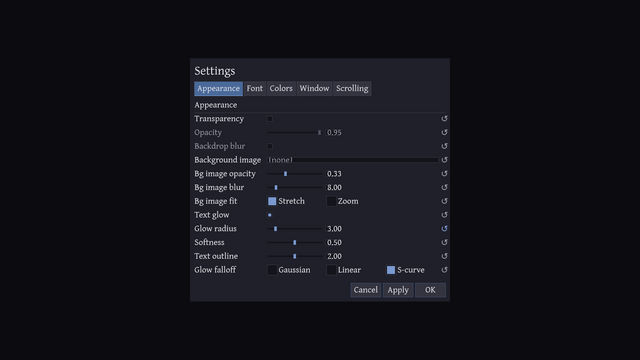
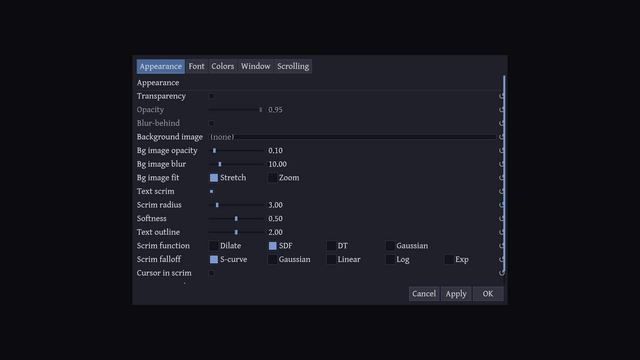
scrim doc + settings shot

diff --git a/source/src/scrim.rs b/source/src/scrim.rs
@@ -1,19 +1,24 @@
 // SPDX-License-Identifier: GPL-2.0-or-later
 // Copyright © 2026 Jim Collier
 
-//! Text readability scrim: a blurred, background-coloured halo behind glyphs so
-//! text stays legible over a light/busy background image or a near-transparent
-//! terminal. The scene's text is rendered to a texture, blurred (2-pass separable
-//! Gaussian), and composited UNDER the crisp text, coloured per-pixel by a
+//! Text readability scrim: a background-coloured halo behind glyphs so text stays
+//! legible over a light/busy background image or a near-transparent terminal. The
+//! scene's text is rendered to a coverage texture, turned into a halo by one of
+//! four functions, and composited UNDER the crisp text, coloured per-pixel by a
 //! `bgcolor` map so a glyph's halo takes ITS cell's bg colour (a glyph on a
 //! one-off colored cell isn't smeared with the global bg colour).
 //!
+//! Two passes build the halo in tex_a (tex_t stays crisp for the border). Gaussian
+//! (legacy, corners recede) is a separable sum-blur; the distance functions (dilate
+//! / sdf / dt) are a separable, bounded Euclidean/Chebyshev distance transform so
+//! corners stay full - pass a = per-column 1D distance, pass b = row combine. The
+//! composite maps the blurred coverage OR the distance (through a falloff curve) to
+//! the per-pixel bg colour, plus a thin dilated outline of the crisp coverage.
+//!
 //! tex_t <- crisp TEXT coverage; tex_cur <- crisp CURSOR coverage (kept apart so
-//! the cursor can join the halo and the outline independently). H-blur folds in
-//! tex_cur (when cursor_scrim) tex_t->tex_b, V-blur tex_b->tex_a; tex_a is the
-//! blurred coverage. The composite multiplies it by `bgcolor`, and samples tex_t
-//! (+ tex_cur when cursor_outline) to add a thin dilated outline around the crisp
-//! coverage (the "border" - solid, same per-pixel colour as the scrim).
+//! the cursor can join the halo and the outline independently, each by its own
+//! flag; the first pass folds tex_cur in when cursor_scrim, the composite samples
+//! tex_t / tex_cur to add the border when cursor_outline).
 
 use crate::gfx::{RectInstance, RectRenderer};
 